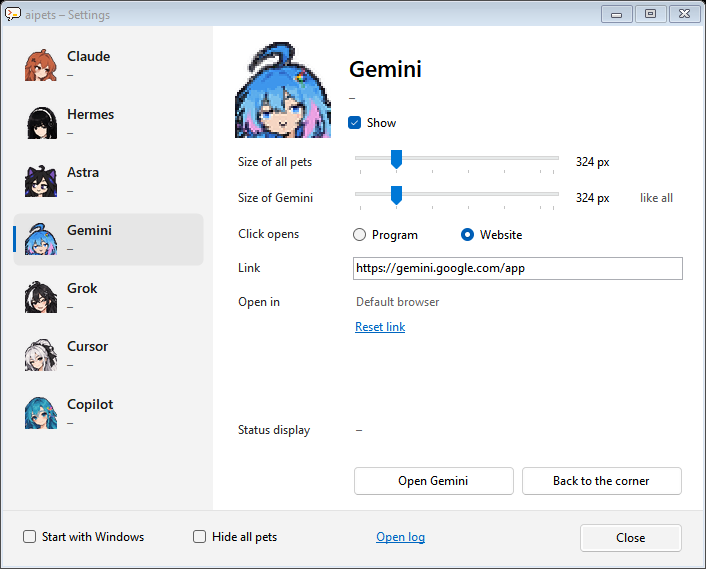
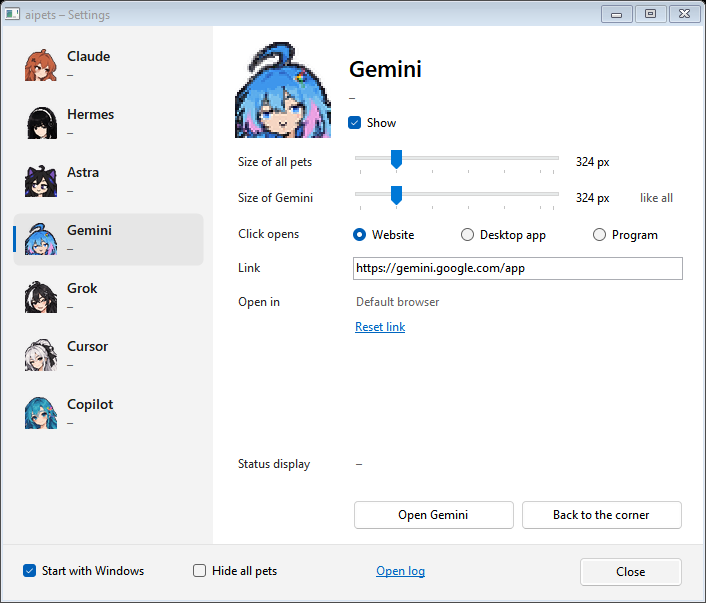
Unify pet customization and default to websites
- Offer Website, Desktop app and Program for every pet, including custom app executables
- Start CLI commands without arguments and add optional supported bypass presets
- Preserve custom arguments and clear a recognized bypass preset when changing CLIs
- Update setup documentation and the settings preview

diff --git a/src/SettingsForm.cs b/src/SettingsForm.cs
@@ -40,7 +40,7 @@ namespace AiPets
         bool ownHeight;                  // the shown pet has her own height
         readonly RadioButton programMode = new RadioButton(), appMode = new RadioButton(), websiteMode = new RadioButton();
         readonly TextBox programBox = new TextBox(), argsBox = new TextBox(), dirBox = new TextBox(), urlBox = new TextBox();
-        readonly ComboBox shellBox = new ComboBox();
+        readonly ComboBox shellBox = new ComboBox(), argsPresetBox = new ComboBox();
         readonly Button openButton = new Button(), homeButton = new Button();
         // "Click opens: Program" shows program, arguments, terminal and folder; "Desktop app" the app
         // (and the folder, if the program opens the app: codex app); "Website" only the link
@@ -72,7 +72,7 @@ namespace AiPets
             AutoScaleMode = AutoScaleMode.Dpi;
             Font = new Font("Segoe UI", 9F);
             Text = "aipets – Settings";
-            ClientSize = new Size(700, 540);
+            ClientSize = new Size(700, 574);
             FormBorderStyle = FormBorderStyle.FixedSingle;
             MaximizeBox = false;
             StartPosition = FormStartPosition.CenterScreen;
@@ -240,11 +240,10 @@ namespace AiPets
             programMode.Text = "Program";
             appMode.Text = "Desktop app";
             websiteMode.Text = "Website";
-            // ShowPet puts "Website" behind "Desktop app", or in its place for pets without an app
-            programMode.Location = new Point(4, 3);
+            websiteMode.Location = new Point(4, 3);
             appMode.Location = new Point(112, 3);
-            websiteMode.Location = new Point(232, 3);
-            foreach (RadioButton radio in new[] { programMode, appMode, websiteMode })
+            programMode.Location = new Point(244, 3);
+            foreach (RadioButton radio in new[] { websiteMode, appMode, programMode })
             {
                 RadioButton r = radio;
                 r.AutoSize = true;
@@ -289,8 +288,28 @@ namespace AiPets
             appRows.Add(resetApp);
             page.Controls.AddRange(new Control[] { appName, pickApp, appWhere, resetApp });
             y += 34;
-            programRows.Add(AddLabel(page, "Arguments", y));
-            programRows.Add(SetupBox(page, argsBox, y, 330));
+            programRows.Add(AddLabel(page, "CLI arguments", y));
+            argsPresetBox.DropDownStyle = ComboBoxStyle.DropDownList;
+            argsPresetBox.Location = new Point(140, y - 3);
+            argsPresetBox.Width = 330;
+            argsPresetBox.SelectedIndexChanged += delegate
+            {
+                if (loading || current == null || host == null || argsPresetBox.SelectedIndex < 0)
+                    return;
+                string choice = (string)argsPresetBox.SelectedItem;
+                if (choice == "Custom arguments")
+                {
+                    argsBox.Focus();
+                    argsBox.SelectAll();
+                    return;
+                }
+                PetSettings saved = host.SettingsOf(current);
+                string value = choice == "Bypass permissions" ? current.Info.BypassArguments(saved.Program) : "";
+                argsBox.Text = value;
+                host.ChangeSetting(current, "args", value == current.Info.Args ? null : value);
+            };
+            page.Controls.Add(argsPresetBox);
+            programRows.Add(argsPresetBox);
             linkRows.Add(AddLabel(page, "Open in", y));
             var browser = new Label { Text = "Default browser", AutoSize = true, Location = new Point(140, y), ForeColor = Muted };
             page.Controls.Add(browser);
@@ -305,6 +324,9 @@ namespace AiPets
             };
             page.Controls.Add(resetUrl);
             linkRows.Add(resetUrl);
+            y += 34;
+            programRows.Add(AddLabel(page, "Arguments", y));
+            programRows.Add(SetupBox(page, argsBox, y, 330));
             y += 34;
             programRows.Add(AddLabel(page, "Open in", y));
             programRows.Add(shellBox);
@@ -570,10 +592,7 @@ namespace AiPets
                 if (!dirBox.Focused) dirBox.Text = s.WorkDir;
                 if (!urlBox.Focused) urlBox.Text = s.Url;
                 shellBox.SelectedIndex = Math.Max(0, Array.IndexOf(ShellValues, s.Shell));
-                bool hasApp = s.DesktopApp.Length > 0;
-                int gap = appMode.Left - programMode.Left - programMode.PreferredSize.Width;
-                appMode.Visible = hasApp;
-                websiteMode.Left = hasApp ? appMode.Left + appMode.PreferredSize.Width + gap : appMode.Left;
+                ShowArgumentPresets(p.Info, s.Program, argsBox.Text);
                 programMode.Checked = s.OpensProgram;
                 appMode.Checked = s.OpensApp;
                 websiteMode.Checked = s.OpensWebsite;
@@ -605,7 +624,7 @@ namespace AiPets
         {
             DesktopApp app = DesktopApp.Find(s.DesktopApp);
             appName.ForeColor = app != null ? Color.FromArgb(26, 26, 26) : Muted;
-            appName.Text = app != null ? app.ToString() : "not found";
+            appName.Text = app != null ? app.ToString() : s.DesktopApp.Length == 0 ? "Choose an app" : "not found";
             if (viaProgram)
                 appWhere.Text = "A click runs \"" + DesktopApp.ProgramCommand(s, pet.AppCommand)
                     + "\" in the working folder, without a terminal window.";
@@ -628,6 +647,21 @@ namespace AiPets
                 ShowPet(current);
             else
                 state.Text = host.StateText(current);
+        }
+
+        void ShowArgumentPresets(PetInfo pet, string program, string args)
+        {
+            string bypass = pet.BypassArguments(program);
+            Quietly(delegate
+            {
+                argsPresetBox.Items.Clear();
+                argsPresetBox.Items.Add("Standard (no arguments)");
+                if (bypass.Length > 0)
+                    argsPresetBox.Items.Add("Bypass permissions");
+                argsPresetBox.Items.Add("Custom arguments");
+                argsPresetBox.SelectedItem = args.Length == 0 ? "Standard (no arguments)"
+                    : bypass.Length > 0 && args == bypass ? "Bypass permissions" : "Custom arguments";
+            });
         }
 
         void Commit(TextBox box)
@@ -660,8 +694,18 @@ namespace AiPets
             }
             string fallback = key == "program" ? info.Program : key == "args" ? info.Args : key == "url" ? info.Url : null;
             string stored = value == fallback ? null : value;
-            if (stored != host.Settings.Get(info.Id, key))
+            // A preset belongs to its CLI; keep custom arguments, but do not carry a recognized
+            // bypass flag over to an unrelated program when its name is changed.
+            if (key == "program" && saved.Args.Length > 0 && saved.Args == info.BypassArguments(saved.Program)
+                && info.BypassArguments(value).Length == 0 && argsBox.Text.Trim() == saved.Args)
+            {
+                host.ChangeSetting(current, key, stored, "args", info.Args.Length == 0 ? null : "");
+                argsBox.Text = "";
+            }
+            else if (stored != host.Settings.Get(info.Id, key))
                 host.ChangeSetting(current, key, stored);
+            if (key == "program" || key == "args")
+                ShowArgumentPresets(info, host.SettingsOf(current).Program, argsBox.Text.Trim());
         }
 
         void CommitAll()
@@ -695,7 +739,7 @@ namespace AiPets
             using (var dialog = new OpenFileDialog())
             {
                 dialog.Title = "Which app should " + current.Info.Name + " open?";
-                dialog.Filter = "Programme (*.exe)|*.exe";
+                dialog.Filter = "Programs (*.exe)|*.exe";
                 DesktopApp app = DesktopApp.Find(host.SettingsOf(current).DesktopApp);
                 if (app != null && app.Exe != null)
                 {
@@ -826,7 +870,7 @@ namespace AiPets
                     PetSettings s = PetSettings.From(form.current.Info, Store.Load());
                     s.UseMode(mode);
                     if (s.Mode != mode)
-                        continue;   // a pet without a desktop app has no app page
+                        continue;
                     form.snapshotMode = mode;
                     form.ShowPet(form.current);
                     form.SavePng(Path.Combine(dir, "settings-" + mode + ".png"));

diff --git a/src/Pets.cs b/src/Pets.cs
@@ -14,7 +14,7 @@ namespace AiPets
     {
         public string Id, Dir, Name, OpenText;
         public int Order, Home;
-        public string Program, Find, Args, Shell;
+        public string Program, Find, Args, BypassArgs, Shell;
         public string Url;          // the pet's website, opened in the default browser in website mode
         public string DesktopApp;   // app mode: app ids and exe paths, ';'-separated (see DesktopApp.Find)
         public string AppCommand;   // app mode: the program with these arguments opens the app ("codex app"), without a window
@@ -35,6 +35,28 @@ namespace AiPets
         public bool HasSprites
         {
             get { return File.Exists(Path.Combine(SpritesDir, "atlas.png")) && File.Exists(Path.Combine(SpritesDir, "atlas.txt")); }
+        }
+
+        /// <summary>The optional bypass preset only applies to the CLI named in this pet's defaults.</summary>
+        public string BypassArguments(string program)
+        {
+            string expected = ProgramIdentity(Program);
+            return expected.Length > 0 && string.Equals(expected, ProgramIdentity(program), StringComparison.OrdinalIgnoreCase)
+                ? BypassArgs ?? "" : "";
+        }
+
+        static string ProgramIdentity(string program)
+        {
+            string name = (program ?? "").Trim();
+            if (name.Length >= 2 && ((name[0] == '"' && name[name.Length - 1] == '"')
+                || (name[0] == '\'' && name[name.Length - 1] == '\'')))
+                name = name.Substring(1, name.Length - 2);
+            name = name.Replace('/', '\\');
+            name = name.Substring(name.LastIndexOf('\\') + 1);
+            foreach (string extension in new[] { ".exe", ".cmd", ".bat" })
+                if (name.EndsWith(extension, StringComparison.OrdinalIgnoreCase))
+                    return name.Substring(0, name.Length - extension.Length);
+            return name;
         }
 
         public static List<PetInfo> Discover()
@@ -84,6 +106,7 @@ namespace AiPets
             pet.Program = ini.Get("pet", "program") ?? "";
             pet.Find = ini.Get("pet", "find") ?? "";
             pet.Args = ini.Get("pet", "args") ?? "";
+            pet.BypassArgs = ini.Get("pet", "bypassargs") ?? "";
             pet.Shell = ini.Get("pet", "shell") ?? "direct";
             pet.Url = ini.Get("pet", "url") ?? "";
             pet.DesktopApp = ini.Get("pet", "app") ?? "";
@@ -165,12 +188,10 @@ namespace AiPets
             return ini.Get("app", "hidden") == "1";
         }
 
-        /// <summary>Switches the mode; app mode needs an app to look for, otherwise it is program mode.</summary>
+        /// <summary>Switches the mode; every pet can use a custom desktop app.</summary>
         public void UseMode(string mode)
         {
             Mode = CheckedMode(mode);
-            if (Mode == "app" && DesktopApp.Length == 0)
-                Mode = "program";
         }
 
         /// <summary>"website", "app" or "program" (anything unknown).</summary>

diff --git a/src/PetForm.cs b/src/PetForm.cs
@@ -1001,7 +1001,7 @@ namespace AiPets
             var openProgram = new ToolStripMenuItem("Program", null, delegate { SetMode("program"); });
             var openApp = new ToolStripMenuItem("Desktop app", null, delegate { SetMode("app"); });
             var openWebsite = new ToolStripMenuItem("Website", null, delegate { SetMode("website"); });
-            opens.DropDownItems.AddRange(new ToolStripItem[] { openProgram, openApp, openWebsite });
+            opens.DropDownItems.AddRange(new ToolStripItem[] { openWebsite, openApp, openProgram });
             // heights of all pets (Tag = px), then this pet's own, each group under a grey heading
             var sizes = new ToolStripMenuItem("Size");
             var shared = new List<ToolStripMenuItem>();
@@ -1053,7 +1053,6 @@ namespace AiPets
                 openApp.Checked = s.OpensApp;
                 openWebsite.Checked = s.OpensWebsite;
                 openProgram.ToolTipText = s.Program;
-                openApp.Visible = s.DesktopApp.Length > 0;   // only pets that know a desktop app
                 openApp.ToolTipText = AppText(s);
                 openWebsite.ToolTipText = s.Url;
                 foreach (ToolStripMenuItem entry in shared)

diff --git a/docs/setup.md b/docs/setup.md
@@ -25,33 +25,39 @@ The current `main` branch contains features added after the `v0.1.0-rc.1` binary
 
 ## Choose what a click opens
 
-Open settings with a left-click on the aipets tray icon. Select a pet, then choose **Click opens**. The same choices appear in the pet's right-click menu.
+Open settings with a left-click on the aipets tray icon. Select a pet, then choose **Click opens**. Every pet has the same choices in the same order, also in its right-click menu. All seven pets default to **Website**.
 
 | Mode | Configuration |
 | --- | --- |
-| **Program** | Program, arguments, terminal and working folder. Windows Terminal is used when available. |
-| **Desktop app** | Available for Claude, Hermes, Astra, Cursor and Copilot. aipets detects supported installations; use **…** to choose a different executable. |
 | **Website** | An HTTP or HTTPS address in your default browser. A bare domain such as `grok.com` becomes `https://grok.com/`. |
+| **Desktop app** | Available for every pet; use **…** to choose an executable. Presets detect supported Claude, Hermes, Astra, Cursor and Copilot installations. |
+| **Program** | Program, CLI arguments preset, editable arguments, terminal and working folder. Windows Terminal is used when available. |
 
 - **Astra:** app mode uses `codex app` in the chosen working folder, without opening a terminal. If the CLI is unavailable, it tries the installed app package directly. Website mode opens `https://chatgpt.com/` by default.
 - **Hermes:** if Hermes Desktop has not been built, app mode starts `hermes desktop` in a terminal. The first build can take several minutes; later clicks start the built app directly.
 - **Cursor:** the program preset is the `cursor` editor command.
 - **Copilot:** the app preset is Microsoft Copilot. Program mode is available for your own command; it has no preset command.
-- **Gemini and Grok:** their default is the website. Program mode has `gemini` and `grok` presets; install and configure the intended CLI yourself. The Grok preset has not been verified against a real CLI installation.
+- **Gemini and Grok:** Program mode has `gemini` and `grok` presets; install and configure the intended CLI yourself. Desktop app mode lets you choose your own executable. The Grok preset has not been verified against a real CLI installation.
 
 Changing the launch mode does not add a status integration. Status always comes from the sources listed in the [README](../README.md#supported-pets).
 
 ### Terminal arguments
 
-The shipped program presets use these arguments:
+In **Program** mode, **CLI arguments** defaults to **Standard (no arguments)**. aipets adds no CLI arguments; the tool's own saved configuration still applies.
 
-| Pet | Default command |
-| --- | --- |
-| Claude | `claude --dangerously-skip-permissions` |
-| Hermes | `hermes --yolo` |
-| Astra | `codex --dangerously-bypass-approvals-and-sandbox` |
+| Pet | Standard command | Optional **Bypass permissions** arguments |
+| --- | --- | --- |
+| Claude | `claude` | `--dangerously-skip-permissions` |
+| Hermes | `hermes` | `--yolo` |
+| Astra | `codex` | `--dangerously-bypass-approvals-and-sandbox` |
+| Gemini | `gemini` | `--yolo` |
+| Grok | `grok` | No preset |
+| Cursor | `cursor` (editor command) | No preset |
+| Copilot | Your own command; no default CLI | No preset |
 
-These flags bypass the agents' usual permission prompts; the Codex flag also disables its sandbox. To use the tools' normal defaults, choose **Program** mode in settings and remove the flag from **Arguments** before launching.
+**Bypass permissions** is optional and appears only for the matching supported CLI. It skips that tool's permission prompts; the Codex preset also disables its sandbox. Gemini documents its `--yolo` option in the [CLI configuration reference](https://geminicli.com/docs/reference/configuration/).
+
+Choose **Custom arguments** to edit **Arguments** yourself. Existing custom arguments are preserved, and the arguments field remains editable. Choosing Standard clears the arguments; choosing Bypass replaces them with the preset. Changing to an unrelated program clears a recognized bypass preset and preserves custom arguments.
 
 ## Size and visibility
 

diff --git a/README.md b/README.md
@@ -2,7 +2,7 @@
 
 **Animated desktop companions for your AI tools on Windows.**
 
-Keep your favorite AI tools just above your taskbar as little characters. Click a pet to open its terminal, desktop app or website. Supported agents also show when they are **working**, **need your input** or **have finished**.
+Keep your favorite AI tools just above your taskbar as little characters. Click a pet to open its website, desktop app or terminal. Supported agents also show when they are **working**, **need your input** or **have finished**.
 
 ![The seven aipets characters: Claude, Hermes, Astra, Gemini, Grok, Cursor and Copilot](docs/images/pets.png)
 
@@ -13,7 +13,7 @@ All seven pets use animated pixel art.
 ## What it can do
 
 - **Show agent activity:** a spinner while working, **?** when input is needed, and **✓** when finished, depending on the integration.
-- **Open your tools:** choose a program, supported desktop app or website, with your own command, link and working folder.
+- **Open your tools:** every pet has the same Website, Desktop app and Program choices, with your own link, executable, command and working folder.
 - **Make the desktop yours:** drag, hide and resize pets from 162 pixels up to screen height. Positions and sizes are remembered; dragging a pet brings it to the front.
 - **Stay out of the way:** hide all pets at once for screen sharing. They also hide automatically for fullscreen apps.
 - **React and animate:** blinking, hover and click reactions, and sleeping while you are away. Manage everything from the tray icon or a pet's right-click menu.
@@ -43,21 +43,21 @@ Real desktop screenshots with Claude and Astra:
 
 Use the source ZIP for the features shown here; the existing `v0.1.0-rc.1` binary release is older.
 
-**Terminal defaults:** Claude, Hermes and Codex launch with permission-bypass arguments. You can change these under **Settings → Arguments**; the [setup guide](docs/setup.md#terminal-arguments) lists the exact defaults.
+**Defaults:** every pet opens its website. Program mode starts without extra arguments and uses the CLI's own saved configuration. The **CLI arguments** dropdown offers **Standard (no arguments)**, optional **Bypass permissions** for supported CLIs, and **Custom arguments**. See the [setup guide](docs/setup.md#terminal-arguments).
 
 ## Supported pets
 
 | Pet | Default click opens | Live status |
 | --- | --- | --- |
-| **Claude** | Claude Code in a terminal | Working, waiting, done |
-| **Hermes** | Hermes Agent in PowerShell | Working, approval waiting, done |
-| **Astra (Codex)** | Codex CLI in a terminal | Working, waiting, done; also supports Codex desktop sessions |
+| **Claude** | Claude website | Working, waiting, done |
+| **Hermes** | Hermes Agent website | Working, approval waiting, done |
+| **Astra (Codex)** | ChatGPT website | Working, waiting, done; also supports Codex desktop sessions |
 | **Gemini** | Gemini website | No integration |
 | **Grok** | Grok website | No integration |
-| **Cursor** | Cursor desktop app | Working and done |
-| **Copilot** | Microsoft Copilot desktop app | No integration |
+| **Cursor** | Cursor website | Working and done |
+| **Copilot** | Microsoft Copilot website | No integration |
 
-Switch **Click opens** in settings or the pet's right-click menu. Desktop app presets are available for Claude, Hermes, Astra, Cursor and Copilot; every pet supports a website or custom program. Astra's website is **chatgpt.com**. Copilot is **Microsoft Copilot**.
+Switch **Click opens** in settings or the pet's right-click menu: **Website → Desktop app → Program**. Every pet supports a custom desktop executable as well as a website or program. Desktop app presets are available for Claude, Hermes, Astra, Cursor and Copilot. Astra's website is **chatgpt.com**. Copilot is **Microsoft Copilot**.
 
 Status depends on the agent's hooks, independently of the chosen click action. Opening a website does not let aipets read that chat's status. Clicking a waiting pet opens the configured tool; it does not select the specific waiting conversation.
 
